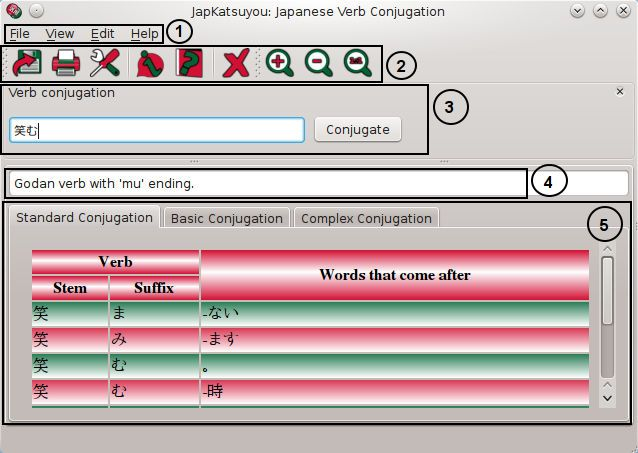
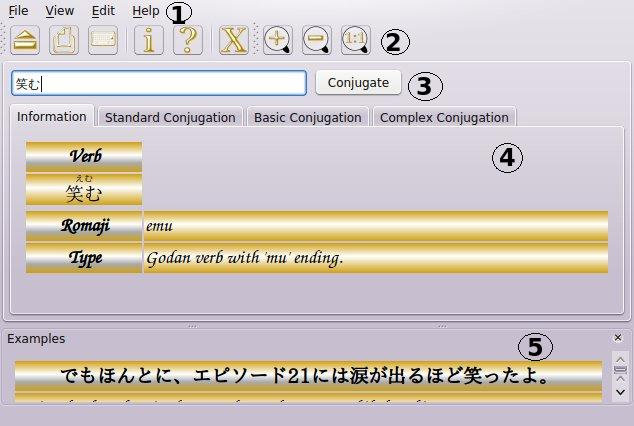
update english help

diff --git a/jpconj/Media/help/en/about.html b/jpconj/Media/help/en/about.html
@@ -33,15 +33,22 @@ The application can afford the following features:
 <li>The conjugation tables can be exported to three formats: pdf, odt, and htm.</li>
 </ul>
 </p>
+<p>
+Version 2 features:
+<ul>
+<li>Showing examples for verbs. </li>
+<li>More preferences: fonts and icons. </li>
+<li>Presenting furigana and romaji for new learners.</li>
+</ul>
+</p>
 
 <h2 id="license">JapKatsuyou License</h2>
 <p>
-Copyright 2013 Abdelkrime Aries
-(<a href="mailto:kariminfo0@gmail.com">kariminfo0@gmail.com</a>)
+Copyright 2013-2016 AnqaFalak group
 </p>
 <p>
-Copyright 2013 DzCoding group (JapKatsuyou team)
-(<a href="mailto:dzcoding@googlegroups.com">dzcoding@googlegroups.com</a>)
+Copyright 2013 Abdelkrime Aries
+(<a href="mailto:kariminfo0@gmail.com">kariminfo0@gmail.com</a>)
 </p>
 
 <p>
@@ -70,8 +77,57 @@ or later
 </p>
 </i></blockquote>
 
-<h2 id="database">JapKatsuyou Verbs Database</h2>
-The verb database is extracted from <a href="http://www.csse.monash.edu.au/~jwb/edict.html">Edict2</a> dictionary 
-which is licensed under <a href="http://creativecommons.org/licenses/by-sa/3.0/">CC-BY-SA-3.0</a> license.
+<h2 id="legal">Legal information</h2>
+<h3>Code</h3>
+<p>
+The code of this software is licensed under 
+<a href="http://www.apache.org/licenses/LICENSE-2.0">
+Apache version 2
+</a>
+<br>
+<a href="https://github.com/AnqaFalak/JapKatsuyou">
+Source
+</a>
+</p>
+
+<h3>Third party</h3>
+<p>
+This software uses other materials:
+</p>
+
+<h4>Edict2</h4>
+<p>
+Used to verify the existence of verbs. <br>
+Copyright: <a href="mailto:jim.breen@monash.edu">Jim Breen</a> 
+and the <a href="http://www.edrdg.org/edrdg/index.html">EDRDG group</a>
+<br>
+Licensed under 
+<a href="http://creativecommons.org/licenses/by-sa/3.0/">CC-BY-SA-3.0</a>
+<br>
+<a href="http://www.csse.monash.edu.au/~jwb/edict.html">Source</a> 
+</p>
+
+<h4>Tatoeba examples</h4>
+<p>
+Used to afford examples in different languages. <br>
+Copyright: <a href="https://tatoeba.org">tatoeba.org</a> 
+<br>
+Licensed under 
+<a href="https://creativecommons.org/licenses/by/2.0/">CC-BY-2.0</a>
+<br>
+<a href="https://tatoeba.org/eng/downloads">Source</a> 
+</p>
+
+
+<h4>KIcona</h4>
+<p>
+Used for application's icons. <br>
+Copyright: <a href="mailto:kariminfo0@gmail.com">Abdelkrime Aries</a>
+<br>
+Licensed under 
+<a href="http://creativecommons.org/licenses/by-sa/3.0/">CC-BY-SA-3.0</a>
+<br>
+<a href="https://github.com/kariminf/K-Icona">Source</a> 
+</p>
 </body>
 </html>

diff --git a/jpconj/Media/help/en/gui.html b/jpconj/Media/help/en/gui.html
@@ -21,8 +21,8 @@ The application contains five parts:
 <li><a href="#menubar">Menu Bar</a></li>
 <li><a href="#toolbars">Tool Bars</a></li>
 <li><a href="#search">Search Panel</a></li>
-<li><a href="#type">Verb's Type</a></li>
 <li><a href="#result">Conjugation Result</a></li>
+<li><a href="#exp">Examples</a></li>
 </ol>
 Also, the user interface is translated to languages other than English: Arabic, French, Japanese. 
 <br>
@@ -78,7 +78,13 @@ The input verb must achieve some conditions:
 Then you can either press "Enter" key or push "Conjugate" button to get the result.
 </p>
 
-<h2 id="type">Verb's Type</h2>
+<h2 id="result">Conjugation Result</h2>
+<p>
+The result contains three tables:
+</p>
+
+
+<h4>Information</h2>
 <p>
 The application gives you information about the input verb. 
 If the verb doesn't exist in the database, it will show you a message saying so. 
@@ -102,30 +108,28 @@ This is a list of most important verb types:
 <li>... etc.</li>
 </ul>
 </p>
+<img src="gui_info.jpg" />
 
-<h2 id="result">Conjugation Result</h2>
-<p>
-The result contains three tables:
-</p>
-
-<h4>1- Standard conjugation</h4>
+<h4>Standard conjugation</h4>
 <p>
 It is used by Japanese to learn verb conjugation. <br>
 <img src="gui_standard.jpg" />
 </p>
 
-<h4>2- Basic conjugation</h4>
+<h4>Basic conjugation</h4>
 <p>
 It shows the basic stems: a e u i o plus t-form. <br>
 <img src="gui_basic.jpg" />
 </p>
 
-<h4>3- Complex conjugation</h4>
+<h4>Complex conjugation</h4>
 <p>
 It shows some complex forms, which are originated using basic stems and suffixes.<br>
 <img src="gui_complex.jpg" />
 </p>
 
+<h2 id="exp">Examples</h2>
+<img src="gui_exp.jpg" />
 
 </body>
 </html>

diff --git a/jpconj/Ui/jpconjmain.cpp b/jpconj/Ui/jpconjmain.cpp
@@ -368,7 +368,7 @@ void jpconjmain::changeUiIcons()
     ui->actionPreference->setIcon(Icona::getIcon("pref"));
     ui->actionPrint->setIcon(Icona::getIcon("print"));
     ui->actionZoomIn->setIcon(Icona::getIcon("zoom+"));
-    ui->actionZoomOut->setIcon(Icona::getIcon("zoom"));
+    ui->actionZoomOut->setIcon(Icona::getIcon("zoom-"));
 
     ui->menuZoom->setIcon(Icona::getIcon("zoom"));
 
